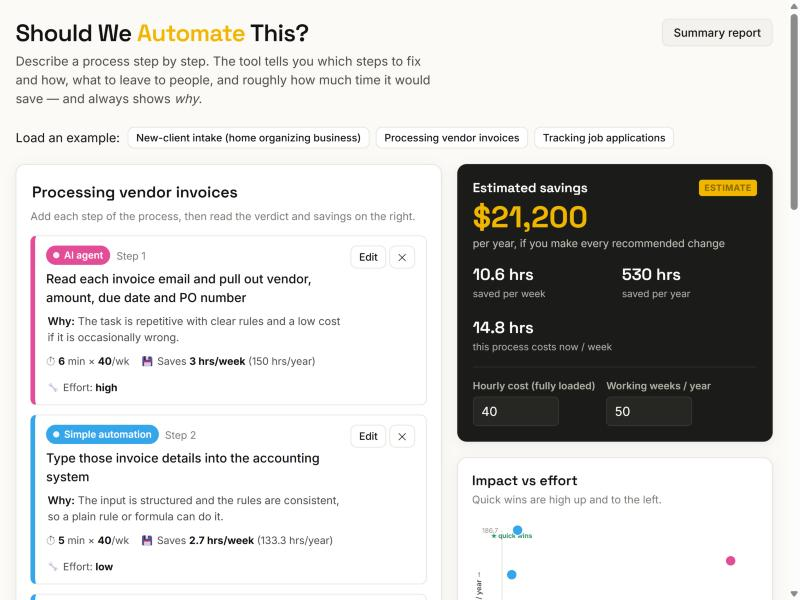
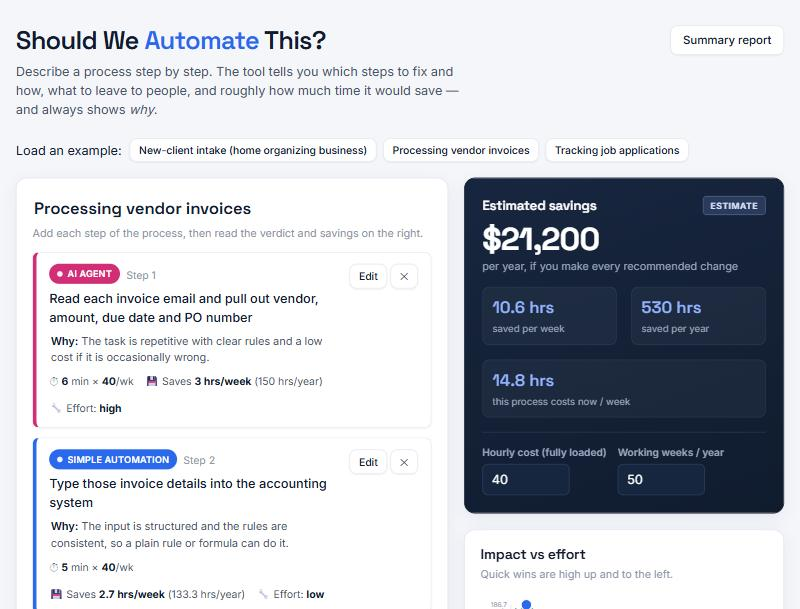
Redesign UI: professional navy/blue palette
Replace the cream/black/amber theme with a professional-services look:
cool off-white canvas, deep navy brand, restrained blue action color,
white cards with soft shadows, navy gradient savings card.

- Retune the six verdict colors into a cohesive, well-separated palette
- Navy primary buttons; blue links, focus rings and rank chips
- Uppercase verdict pills; subtler borders and shadows
- Cool the chart axis greys to match; refresh README screenshot

diff --git a/src/index.css b/src/index.css
@@ -1,36 +1,50 @@
 /* ==========================================================================
    Design system for "Should We Automate This?"
-   Look: clean, professional, like a consulting deliverable.
-   Palette and fonts are defined once as CSS variables so every component is
-   consistent and the theme is trivial to explain or change.
+   Look: a professional-services / consulting deliverable — cool off-white canvas,
+   deep navy as the brand, a restrained blue for action, white cards with soft
+   shadows. The palette is defined once as CSS variables so the theme is consistent
+   and easy to explain or change.
    ========================================================================== */
 :root {
-  /* Brand palette from the spec */
-  --bg: #fbfaf7;
-  --ink: #111111;
-  --accent: #f5b700;
+  /* --- Canvas & ink (cool, neutral, trustworthy) --- */
+  --bg: #f4f6fa;            /* cool off-white page */
+  --ink: #0f1b2e;          /* deep navy — the brand color, used for text & primary buttons */
+  --ink-soft: #475069;     /* secondary text */
+  --ink-faint: #8a93a6;    /* captions / hints */
+  --line: #e4e8f0;         /* hairline borders */
+  --card: #ffffff;         /* card surfaces */
 
-  /* Supporting neutrals derived from the brand */
-  --ink-soft: #4b4b47;
-  --ink-faint: #7a7a74;
-  --line: #e7e4dc;
-  --card: #ffffff;
-  --card-dark: #1b1b19; /* the dark "savings" card */
-  --card-dark-ink: #f4f2ec;
+  /* --- Brand action color (restrained blue) --- */
+  --accent: #2563eb;       /* links, focus ring, small highlights */
+  --accent-strong: #1d4ed8;
+  --accent-soft: #eef3ff;  /* tinted background for subtle emphasis */
+
+  /* --- Primary button = navy (brand), not a loud color --- */
+  --brand: #14223c;
+  --brand-hover: #1f3356;
+
+  /* --- The dark "savings" card --- */
+  --card-dark: #0f1b2e;        /* deep navy, matches the ink */
+  --card-dark-2: #16253f;      /* slightly lifted panel inside the card */
+  --card-dark-ink: #e7ecf6;
+  --card-dark-faint: #9aa6bd;
+  --on-dark-accent: #8fb0ff;   /* light blue that stays legible on navy */
 
   /* The six recommendation colors — mirrored from RECOMMENDATION_META in scoring.js.
-     Chosen to be distinguishable for common colorblindness; never relied on alone
-     (every verdict also shows its text label). */
-  --rec-eliminate: #6b7280;
-  --rec-simple: #0ea5e9;
+     A deliberately qualitative palette: six well-separated hues (slate, blue, violet,
+     amber, rose, green) distinguishable for common colorblindness, and every verdict
+     also always ships with its text label, so color is never the only signal. */
+  --rec-eliminate: #64748b;
+  --rec-simple: #2563eb;
   --rec-app: #7c3aed;
-  --rec-assist: #f5b700;
-  --rec-agent: #ec4899;
+  --rec-assist: #d97706;
+  --rec-agent: #db2777;
   --rec-human: #059669;
 
-  --radius: 12px;
-  --radius-sm: 8px;
-  --shadow: 0 1px 2px rgba(17, 17, 17, 0.04), 0 4px 16px rgba(17, 17, 17, 0.05);
+  --radius: 14px;
+  --radius-sm: 9px;
+  --shadow: 0 1px 2px rgba(15, 27, 46, 0.04), 0 6px 20px rgba(15, 27, 46, 0.06);
+  --shadow-sm: 0 1px 2px rgba(15, 27, 46, 0.05);
   --font-body: 'Inter', system-ui, -apple-system, Segoe UI, Roboto, sans-serif;
   --font-head: 'Space Grotesk', var(--font-body);
 }
@@ -48,7 +62,7 @@ html, body {
   -webkit-font-smoothing: antialiased;
 }
 
-h1, h2, h3, h4 { font-family: var(--font-head); font-weight: 600; line-height: 1.2; margin: 0; }
+h1, h2, h3, h4 { font-family: var(--font-head); font-weight: 600; line-height: 1.2; margin: 0; letter-spacing: -0.01em; }
 
 button { font-family: inherit; cursor: pointer; }
 input, select, textarea { font-family: inherit; font-size: 1rem; }
@@ -56,15 +70,15 @@ input, select, textarea { font-family: inherit; font-size: 1rem; }
 /* Visible keyboard focus everywhere (accessibility). */
 :focus-visible { outline: 3px solid var(--accent); outline-offset: 2px; border-radius: 4px; }
 
-a { color: #0b76c4; }
+a { color: var(--accent); }
 
 /* ------------------------------------------------------------------ Layout */
-.app { max-width: 1180px; margin: 0 auto; padding: 24px 20px 72px; }
+.app { max-width: 1180px; margin: 0 auto; padding: 32px 20px 72px; }
 
 .app-header { display: flex; flex-wrap: wrap; align-items: flex-start; gap: 16px; justify-content: space-between; margin-bottom: 8px; }
-.app-title { font-size: 1.9rem; letter-spacing: -0.02em; }
+.app-title { font-size: 2rem; letter-spacing: -0.025em; }
 .app-title .accent { color: var(--accent); }
-.app-subtitle { color: var(--ink-soft); margin-top: 6px; max-width: 54ch; }
+.app-subtitle { color: var(--ink-soft); margin-top: 8px; max-width: 56ch; }
 
 .toolbar { display: flex; flex-wrap: wrap; gap: 8px; align-items: center; }
 
@@ -78,41 +92,42 @@ a { color: #0b76c4; }
 .right-col { display: flex; flex-direction: column; gap: 20px; }
 
 /* ------------------------------------------------------------------ Cards */
-.card { background: var(--card); border: 1px solid var(--line); border-radius: var(--radius); box-shadow: var(--shadow); padding: 18px; }
+.card { background: var(--card); border: 1px solid var(--line); border-radius: var(--radius); box-shadow: var(--shadow); padding: 20px; }
 .card h2 { font-size: 1.1rem; margin-bottom: 4px; }
 .card .hint { color: var(--ink-faint); font-size: 0.85rem; margin: 2px 0 14px; }
 
 /* ------------------------------------------------------------------ Buttons */
-.btn { border: 1px solid var(--line); background: #fff; color: var(--ink); padding: 8px 14px; border-radius: var(--radius-sm); font-weight: 500; font-size: 0.9rem; transition: background 0.12s, border-color 0.12s; }
-.btn:hover { background: #f4f2ec; }
-.btn-primary { background: var(--accent); border-color: var(--accent); color: #1b1b19; font-weight: 600; }
-.btn-primary:hover { background: #e0a800; }
-.btn-ghost { background: transparent; border-color: transparent; color: var(--ink-soft); }
-.btn-ghost:hover { background: #f1efe8; }
-.btn-sm { padding: 5px 10px; font-size: 0.82rem; }
+.btn { border: 1px solid var(--line); background: #fff; color: var(--ink); padding: 9px 15px; border-radius: var(--radius-sm); font-weight: 500; font-size: 0.9rem; box-shadow: var(--shadow-sm); transition: background 0.12s, border-color 0.12s, box-shadow 0.12s; }
+.btn:hover { background: #f7f9fc; border-color: #d3d9e6; }
+.btn-primary { background: var(--brand); border-color: var(--brand); color: #fff; font-weight: 600; box-shadow: 0 1px 2px rgba(15,27,46,0.15), 0 6px 16px rgba(15,27,46,0.18); }
+.btn-primary:hover { background: var(--brand-hover); border-color: var(--brand-hover); }
+.btn-ghost { background: transparent; border-color: transparent; color: var(--ink-soft); box-shadow: none; }
+.btn-ghost:hover { background: #eaeef6; }
+.btn-sm { padding: 6px 11px; font-size: 0.82rem; }
 .btn-danger:hover { background: #fdecec; border-color: #f3c0c0; color: #b42318; }
 
 /* ------------------------------------------------------------------ Process name */
-.process-name-input { font-family: var(--font-head); font-size: 1.25rem; font-weight: 600; border: none; border-bottom: 2px solid transparent; background: transparent; padding: 4px 2px; width: 100%; color: var(--ink); }
+.process-name-input { font-family: var(--font-head); font-size: 1.3rem; font-weight: 600; border: none; border-bottom: 2px solid transparent; background: transparent; padding: 4px 2px; width: 100%; color: var(--ink); }
 .process-name-input:hover { border-bottom-color: var(--line); }
 .process-name-input:focus { border-bottom-color: var(--accent); outline: none; }
 
 /* ------------------------------------------------------------------ Step cards */
 .steps { display: flex; flex-direction: column; gap: 12px; }
 
-.step { border: 1px solid var(--line); border-left: 6px solid var(--line); border-radius: var(--radius-sm); background: #fff; overflow: hidden; }
-.step-head { display: flex; gap: 12px; align-items: flex-start; padding: 12px 14px; }
+.step { border: 1px solid var(--line); border-left: 5px solid var(--line); border-radius: var(--radius-sm); background: #fff; overflow: hidden; box-shadow: var(--shadow-sm); transition: box-shadow 0.12s; }
+.step:hover { box-shadow: var(--shadow); }
+.step-head { display: flex; gap: 12px; align-items: flex-start; padding: 14px 16px; }
 .step-main { flex: 1; min-width: 0; }
 .step-desc { font-weight: 500; }
 .step-desc.empty { color: var(--ink-faint); font-style: italic; }
 .step-meta { color: var(--ink-faint); font-size: 0.82rem; margin-top: 2px; }
 
-.verdict { display: inline-flex; align-items: center; gap: 6px; font-size: 0.78rem; font-weight: 600; padding: 3px 9px; border-radius: 999px; color: #fff; white-space: nowrap; }
-.verdict .dot { width: 8px; height: 8px; border-radius: 50%; background: rgba(255,255,255,0.9); }
+.verdict { display: inline-flex; align-items: center; gap: 6px; font-size: 0.72rem; font-weight: 600; letter-spacing: 0.02em; text-transform: uppercase; padding: 4px 10px; border-radius: 999px; color: #fff; white-space: nowrap; }
+.verdict .dot { width: 7px; height: 7px; border-radius: 50%; background: rgba(255,255,255,0.92); }
 
 .why { font-size: 0.86rem; color: var(--ink-soft); margin-top: 8px; padding-left: 2px; }
 .why strong { color: var(--ink); font-weight: 600; }
-.note { font-size: 0.82rem; color: #8a6d00; background: #fdf6e0; border: 1px solid #f3e3a8; padding: 6px 10px; border-radius: 6px; margin-top: 8px; }
+.note { font-size: 0.82rem; color: #8a5a00; background: #fff7e8; border: 1px solid #f3dca6; padding: 6px 10px; border-radius: 6px; margin-top: 8px; }
 
 .step-stats { display: flex; flex-wrap: wrap; gap: 14px; margin-top: 10px; font-size: 0.82rem; color: var(--ink-soft); }
 .step-stats b { color: var(--ink); }
@@ -120,40 +135,39 @@ a { color: #0b76c4; }
 .step-actions { display: flex; gap: 4px; }
 
 /* Editor form inside a step */
-.editor { border-top: 1px solid var(--line); padding: 14px; background: #fcfbf8; display: grid; grid-template-columns: repeat(2, minmax(0, 1fr)); gap: 12px; }
+.editor { border-top: 1px solid var(--line); padding: 16px; background: #fafbfd; display: grid; grid-template-columns: repeat(2, minmax(0, 1fr)); gap: 12px; }
 @media (max-width: 560px) { .editor { grid-template-columns: 1fr; } }
 .field { display: flex; flex-direction: column; gap: 4px; }
 .field.full { grid-column: 1 / -1; }
 .field label { font-size: 0.8rem; font-weight: 600; color: var(--ink-soft); }
-.field input, .field select, .field textarea { border: 1px solid var(--line); border-radius: 6px; padding: 8px 10px; background: #fff; color: var(--ink); }
+.field input, .field select, .field textarea { border: 1px solid var(--line); border-radius: 7px; padding: 9px 11px; background: #fff; color: var(--ink); transition: border-color 0.12s, box-shadow 0.12s; }
+.field input:focus, .field select:focus, .field textarea:focus { outline: none; border-color: var(--accent); box-shadow: 0 0 0 3px var(--accent-soft); }
 .field textarea { resize: vertical; min-height: 40px; }
-.field .row2 { display: flex; gap: 8px; }
-.field .row2 > * { flex: 1; min-width: 0; }
 
-/* ------------------------------------------------------------------ Savings panel (dark) */
-.savings { background: var(--card-dark); color: var(--card-dark-ink); border-radius: var(--radius); padding: 20px; box-shadow: var(--shadow); }
+/* ------------------------------------------------------------------ Savings panel (dark navy) */
+.savings { background: linear-gradient(160deg, #16253f 0%, #0f1b2e 100%); color: var(--card-dark-ink); border-radius: var(--radius); padding: 22px; box-shadow: var(--shadow); border: 1px solid #0b1524; }
 .savings h2 { color: #fff; font-size: 1.05rem; }
-.savings .big { font-family: var(--font-head); font-size: 2.4rem; font-weight: 700; color: var(--accent); line-height: 1.1; margin: 6px 0 2px; }
-.savings .big-sub { color: #c7c4bb; font-size: 0.85rem; }
-.savings-row { display: flex; gap: 18px; flex-wrap: wrap; margin-top: 14px; }
-.savings-stat { flex: 1; min-width: 120px; }
-.savings-stat .n { font-family: var(--font-head); font-size: 1.3rem; font-weight: 600; color: #fff; }
-.savings-stat .l { font-size: 0.78rem; color: #b4b1a8; }
-.assumptions { margin-top: 16px; border-top: 1px solid #333; padding-top: 14px; display: flex; gap: 14px; flex-wrap: wrap; }
-.assumptions .field label { color: #b4b1a8; }
-.assumptions .field input { background: #262623; border-color: #3a3a36; color: #fff; width: 110px; }
-.estimate-tag { display: inline-block; font-size: 0.7rem; letter-spacing: 0.04em; text-transform: uppercase; color: #8a6d00; background: var(--accent); padding: 2px 7px; border-radius: 4px; font-weight: 700; }
+.savings .big { font-family: var(--font-head); font-size: 2.5rem; font-weight: 700; color: #fff; line-height: 1.1; margin: 8px 0 2px; letter-spacing: -0.02em; }
+.savings .big-sub { color: var(--card-dark-faint); font-size: 0.85rem; }
+.savings-row { display: flex; gap: 18px; flex-wrap: wrap; margin-top: 16px; }
+.savings-stat { flex: 1; min-width: 120px; background: rgba(255,255,255,0.04); border: 1px solid rgba(255,255,255,0.06); border-radius: 9px; padding: 10px 12px; }
+.savings-stat .n { font-family: var(--font-head); font-size: 1.3rem; font-weight: 600; color: var(--on-dark-accent); }
+.savings-stat .l { font-size: 0.76rem; color: var(--card-dark-faint); margin-top: 2px; }
+.assumptions { margin-top: 18px; border-top: 1px solid rgba(255,255,255,0.1); padding-top: 16px; display: flex; gap: 14px; flex-wrap: wrap; }
+.assumptions .field label { color: var(--card-dark-faint); }
+.assumptions .field input { background: var(--card-dark-2); border-color: #2a3c5c; color: #fff; width: 110px; }
+.assumptions .field input:focus { border-color: var(--on-dark-accent); box-shadow: 0 0 0 3px rgba(143,176,255,0.18); }
+.estimate-tag { display: inline-block; font-size: 0.68rem; letter-spacing: 0.06em; text-transform: uppercase; color: #dbe6ff; background: rgba(143,176,255,0.16); border: 1px solid rgba(143,176,255,0.3); padding: 3px 9px; border-radius: 5px; font-weight: 600; }
 
 /* ------------------------------------------------------------------ Chart */
 .chart-wrap { width: 100%; overflow: visible; }
 .chart-svg { width: 100%; height: auto; display: block; }
 .chart-legend-line { font-size: 0.78rem; color: var(--ink-faint); margin-top: 6px; }
-.chart-dot-label { font-size: 10px; fill: var(--ink); font-family: var(--font-body); }
 
 /* ------------------------------------------------------------------ Do first list */
-.dofirst-item { display: flex; gap: 10px; align-items: flex-start; padding: 10px 0; border-bottom: 1px solid var(--line); }
+.dofirst-item { display: flex; gap: 12px; align-items: flex-start; padding: 11px 0; border-bottom: 1px solid var(--line); }
 .dofirst-item:last-child { border-bottom: none; }
-.rank { font-family: var(--font-head); font-weight: 700; color: var(--accent); width: 22px; flex: none; }
+.rank { font-family: var(--font-head); font-weight: 700; color: #fff; background: var(--accent); width: 24px; height: 24px; flex: none; border-radius: 7px; display: flex; align-items: center; justify-content: center; font-size: 0.82rem; }
 .dofirst-main { flex: 1; min-width: 0; }
 .dofirst-title { font-weight: 500; font-size: 0.9rem; }
 .dofirst-meta { font-size: 0.78rem; color: var(--ink-faint); margin-top: 2px; }
@@ -168,9 +182,9 @@ a { color: #0b76c4; }
 .report { background: #fff; }
 .report-section { margin-bottom: 18px; }
 .report table { width: 100%; border-collapse: collapse; font-size: 0.85rem; }
-.report th, .report td { text-align: left; padding: 8px 10px; border-bottom: 1px solid var(--line); vertical-align: top; }
+.report th, .report td { text-align: left; padding: 9px 10px; border-bottom: 1px solid var(--line); vertical-align: top; }
 .report th { font-size: 0.72rem; text-transform: uppercase; letter-spacing: 0.04em; color: var(--ink-faint); }
-.report .tag { font-size: 0.72rem; font-weight: 700; color: #fff; padding: 2px 8px; border-radius: 999px; white-space: nowrap; }
+.report .tag { font-size: 0.68rem; font-weight: 600; text-transform: uppercase; letter-spacing: 0.02em; color: #fff; padding: 3px 9px; border-radius: 999px; white-space: nowrap; }
 
 .empty-state { text-align: center; padding: 40px 20px; color: var(--ink-faint); }
 

diff --git a/src/components/ImpactEffortChart.jsx b/src/components/ImpactEffortChart.jsx
@@ -33,25 +33,25 @@ export default function ImpactEffortChart({ steps }) {
       <svg className="chart-svg" viewBox={`0 0 ${W} ${H}`} role="img"
         aria-label="Scatter plot of yearly hours saved versus effort for each step. Quick wins appear in the upper-left.">
         {/* Axes */}
-        <line x1={pad.left} y1={pad.top} x2={pad.left} y2={pad.top + plotH} stroke="#d8d4ca" />
-        <line x1={pad.left} y1={pad.top + plotH} x2={pad.left + plotW} y2={pad.top + plotH} stroke="#d8d4ca" />
+        <line x1={pad.left} y1={pad.top} x2={pad.left} y2={pad.top + plotH} stroke="#d4dae6" />
+        <line x1={pad.left} y1={pad.top + plotH} x2={pad.left + plotW} y2={pad.top + plotH} stroke="#d4dae6" />
 
         {/* X labels (effort) */}
         {['low', 'medium', 'high'].map((e) => (
-          <text key={e} x={xFor(e)} y={pad.top + plotH + 20} textAnchor="middle" fontSize="11" fill="#7a7a74">
+          <text key={e} x={xFor(e)} y={pad.top + plotH + 20} textAnchor="middle" fontSize="11" fill="#8a93a6">
             {e[0].toUpperCase() + e.slice(1)}
           </text>
         ))}
-        <text x={pad.left + plotW / 2} y={H - 6} textAnchor="middle" fontSize="11" fill="#4b4b47" fontWeight="600">
+        <text x={pad.left + plotW / 2} y={H - 6} textAnchor="middle" fontSize="11" fill="#475069" fontWeight="600">
           Effort to build →
         </text>
 
         {/* Y axis caption */}
-        <text transform={`translate(14 ${pad.top + plotH / 2}) rotate(-90)`} textAnchor="middle" fontSize="11" fill="#4b4b47" fontWeight="600">
+        <text transform={`translate(14 ${pad.top + plotH / 2}) rotate(-90)`} textAnchor="middle" fontSize="11" fill="#475069" fontWeight="600">
           Hours saved / year →
         </text>
-        <text x={pad.left - 6} y={yFor(maxHours) + 4} textAnchor="end" fontSize="10" fill="#9a968d">{fmtHours(maxHours)}</text>
-        <text x={pad.left - 6} y={yFor(0)} textAnchor="end" fontSize="10" fill="#9a968d">0</text>
+        <text x={pad.left - 6} y={yFor(maxHours) + 4} textAnchor="end" fontSize="10" fill="#9aa3b5">{fmtHours(maxHours)}</text>
+        <text x={pad.left - 6} y={yFor(0)} textAnchor="end" fontSize="10" fill="#9aa3b5">0</text>
 
         {/* "Quick wins" hint in the upper-left quadrant */}
         <text x={xFor('low')} y={pad.top + 12} textAnchor="middle" fontSize="10" fill="#059669" fontWeight="700">

diff --git a/src/scoring.js b/src/scoring.js
@@ -41,13 +41,13 @@ export const RECOMMENDATIONS = {
 export const RECOMMENDATION_META = {
   [RECOMMENDATIONS.ELIMINATE]: {
     label: 'Eliminate',
-    color: '#6B7280', // slate grey — intentionally muted: "stop doing this"
+    color: '#64748B', // slate grey — intentionally muted: "stop doing this"
     short: 'This step may not need to exist.',
     potential: 1.0, // if removed, 100% of the step's time disappears
   },
   [RECOMMENDATIONS.SIMPLE_AUTOMATION]: {
     label: 'Simple automation',
-    color: '#0EA5E9', // sky blue
+    color: '#2563EB', // blue — the "clean, deterministic" verdict
     short: 'A rule, formula, form, or a tool like Zapier / Power Automate can do this.',
     potential: 0.8, // most of the hands-on time goes away; some oversight remains
   },
@@ -59,13 +59,13 @@ export const RECOMMENDATION_META = {
   },
   [RECOMMENDATIONS.AI_ASSIST]: {
     label: 'AI assist',
-    color: '#F5B700', // amber (the product accent) — AI drafts, a person reviews
+    color: '#D97706', // amber — the one warm hue; AI drafts, a person reviews
     short: 'AI produces a draft; a person checks and finishes it.',
     potential: 0.4, // review time is real, so only part of the time is saved
   },
   [RECOMMENDATIONS.AI_AGENT]: {
     label: 'AI agent',
-    color: '#EC4899', // pink/magenta
+    color: '#DB2777', // rose/magenta
     short: 'AI handles the step end-to-end; a person spot-checks the output.',
     potential: 0.75,
   },
